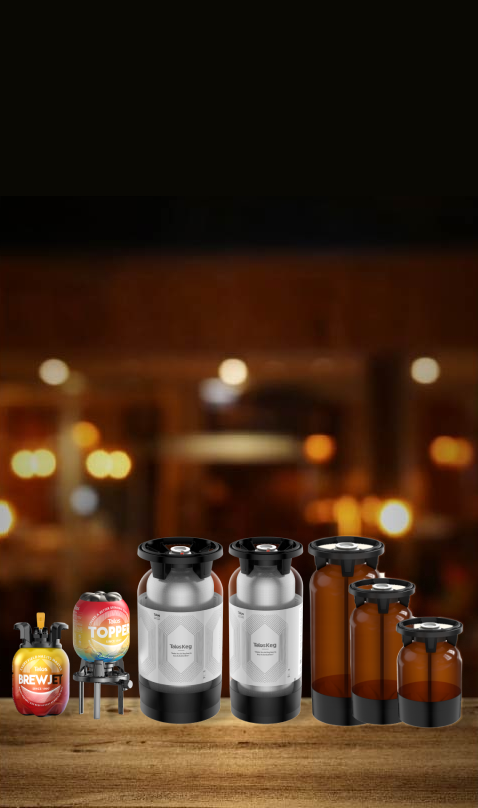
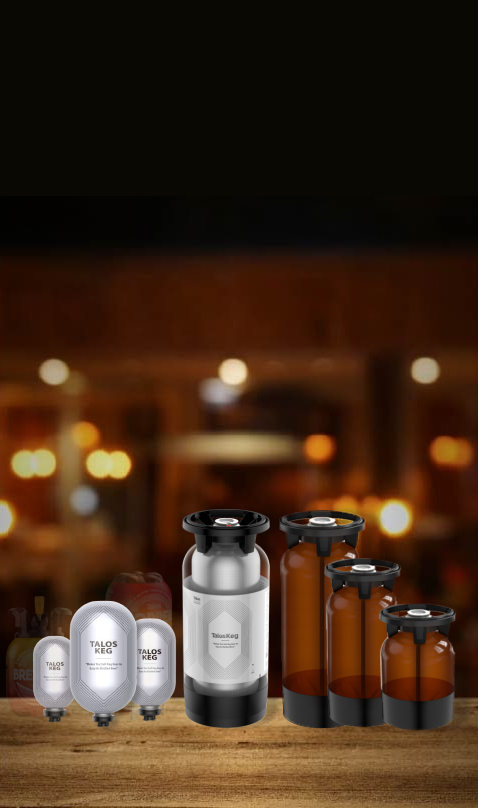
メインビジュアルの背景画像・吹き出し画像を差し替え、レイアウトを調整
- mv-bg.jpg / mv-bg_s.jpg / coment.png を差し替え
- ロゴ・テキスト・吹き出しの位置とサイズを調整
- ビールアイコンの間隔・サイズを調整

Changed region(s): [[0.0, 0.6188, 0.9665, 0.9282]]

diff --git a/selectmall-talos-next/src/styles/components/_mainvisual.scss b/selectmall-talos-next/src/styles/components/_mainvisual.scss
@@ -221,14 +221,14 @@
                 left: 50%;
                 transform: translateX(-50%);
 
-                width: 23%;
+                width: 35%;
                 z-index: 1;
                 @include min(768) {
                     top: 15%;
-                    width: 13%;
+                    width: 17%;
                 }
                 @include min(1000){
-                    top: 18%;
+                    top: 14%;
                 }
                 @include min(2000){
                     width: 15%;
@@ -237,14 +237,12 @@
             }
             &.-text {
                 position: absolute;
-                top: 17%;
+                top: 18%;
                 left: 50%;
                 transform: translateX(-50%);
                 z-index: 1;
-                @include min(768) {
-                    top: 24%;
-                }
-                @include min(1000){top: 29%;}
+                @include min(768) {top: 29%;}
+                @include min(1000){top: 27%;}
                 @include min(1400){top: 28%;}
                 @include min(1800){top: 26%;}
             }
@@ -253,7 +251,7 @@
                 position: absolute;
                 top: 54%;
                 left: 5px;
-                width: 32%;
+                width: 40%;
                 z-index: 8;
                 @include min(768) {
                     top: 23.5%;
@@ -261,10 +259,10 @@
                     width: 26%;
                 }
                 @include min(1000){
-                    top: 22.5%;
-                    left: 15%;
-                    width: 20%;
-                    max-width: 450px;
+                    top: 29.5%;
+                    left: 16%;            
+                    width: 25%;
+                    max-width: 550px;
                 }
             }
             // ビールアイコン 
@@ -421,7 +419,7 @@
                 flex-direction: row;
                 align-items: flex-start;
                 justify-content: center; // 中央揃え
-                gap: 12px;
+                gap: 25px;
                 @include max(768){
                     top: 0;
                     left: 50%;
@@ -435,7 +433,7 @@
                 
                 img {
                     flex: 0 0 auto; // 固定サイズ
-                    width: 24px; // レスポンシブ対応
+                    width: 30px; // レスポンシブ対応
                     height: auto;
                     // 各画像の幅を個別指定
                     @include min(500)  {width: 34px;}
@@ -455,11 +453,6 @@
             width: 100lvw;
             height: 20vh;
             max-height: 190px !important;
-            // background: linear-gradient(
-            //     220deg,
-            //     $lp-color03,
-            //     $lp-color02
-            // );
             overflow: hidden;
     
             @include min(500) {
